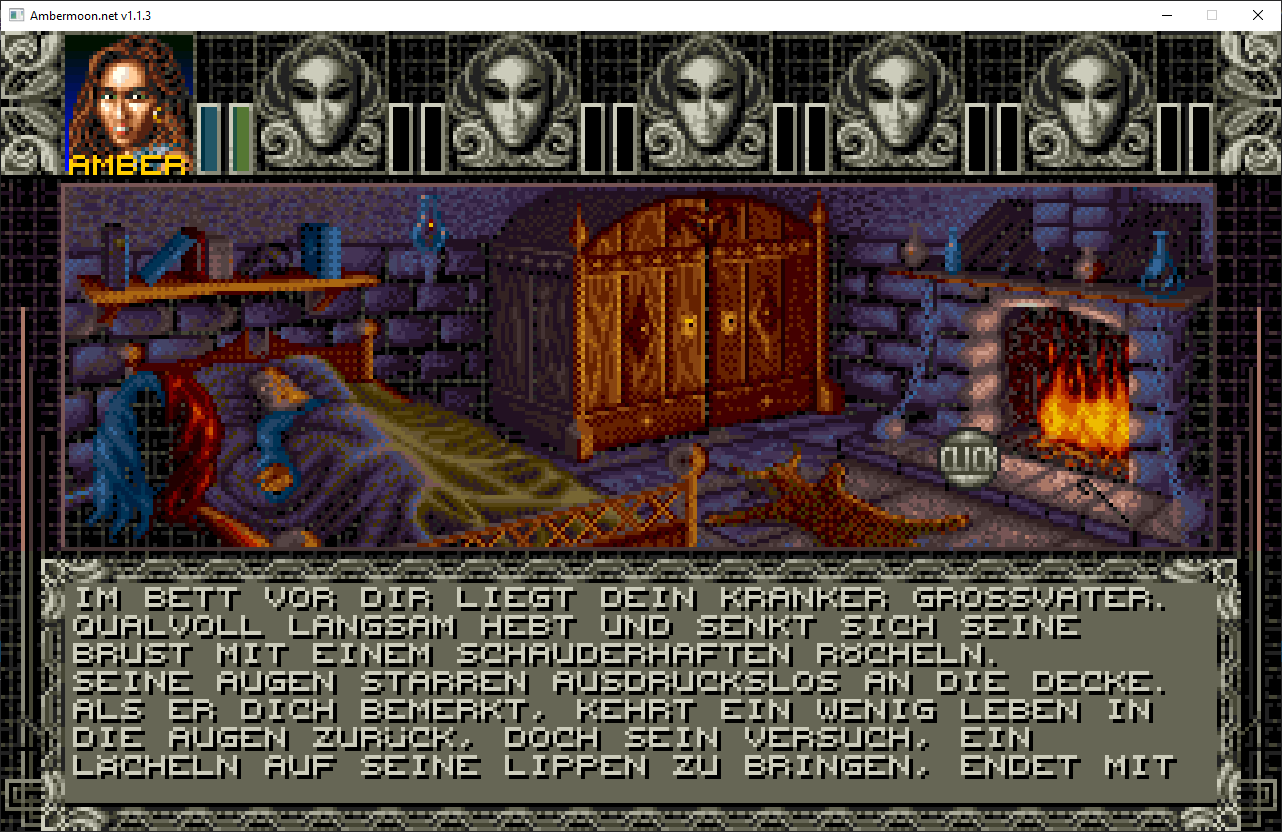
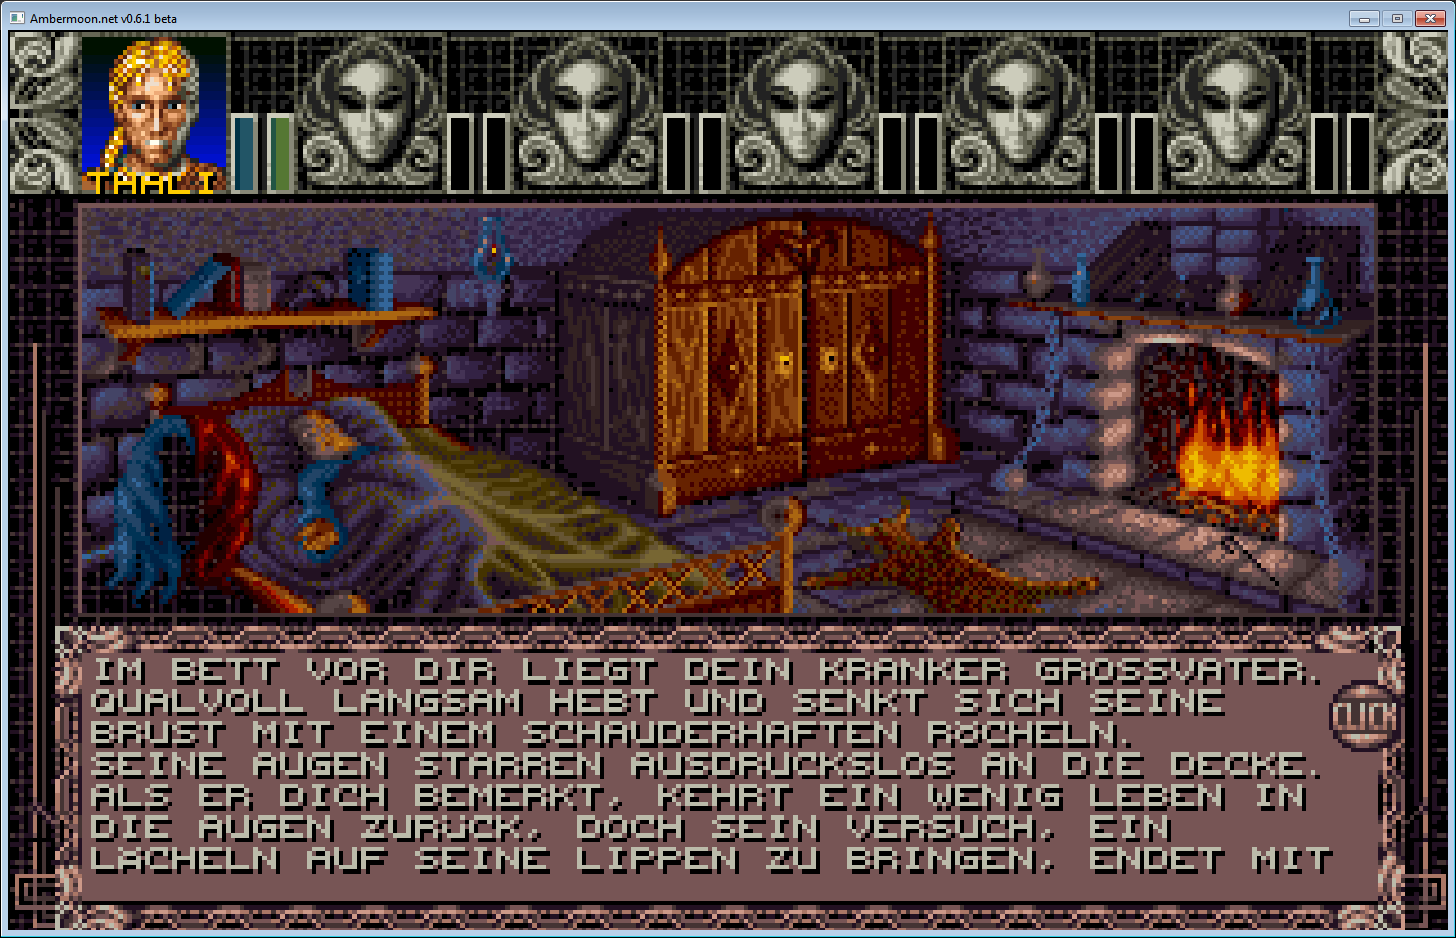
Events now use correct palettes

diff --git a/Ambermoon.Core/Game.cs b/Ambermoon.Core/Game.cs
@@ -11416,15 +11416,9 @@ namespace Ambermoon
                 layout.SetLayout(LayoutType.Event);
                 ShowMap(false);
                 layout.Reset();
-
-                if (gameOver)
-                {
-                    currentUIPaletteIndex = 37; // game over palette
-                    layout.UpdateUIPalette(currentUIPaletteIndex);
-                    cursor.UpdatePalette(this);
-                }
-
-                layout.AddEventPicture(imageIndex);
+                layout.AddEventPicture(imageIndex, out currentUIPaletteIndex);
+                layout.UpdateUIPalette(currentUIPaletteIndex);
+                cursor.UpdatePalette(this);
                 layout.FillArea(new Rect(16, 138, 288, 55), GetUIColor(28), false);
 
                 // Position = 18,139, max 40 chars per line and 7 lines.

diff --git a/Ambermoon.Core/UI/Layout.cs b/Ambermoon.Core/UI/Layout.cs
@@ -3006,10 +3006,10 @@ namespace Ambermoon.UI
             }
         }
 
-        public void AddEventPicture(uint index)
+        public void AddEventPicture(uint index, out byte palette)
         {
             var sprite = eventPicture ??= RenderView.SpriteFactory.Create(320, 92, true, 10) as ILayerSprite;
-            sprite.PaletteIndex = index switch
+            palette = sprite.PaletteIndex = index switch
             {
                 0 => 26,
                 1 => 31,
